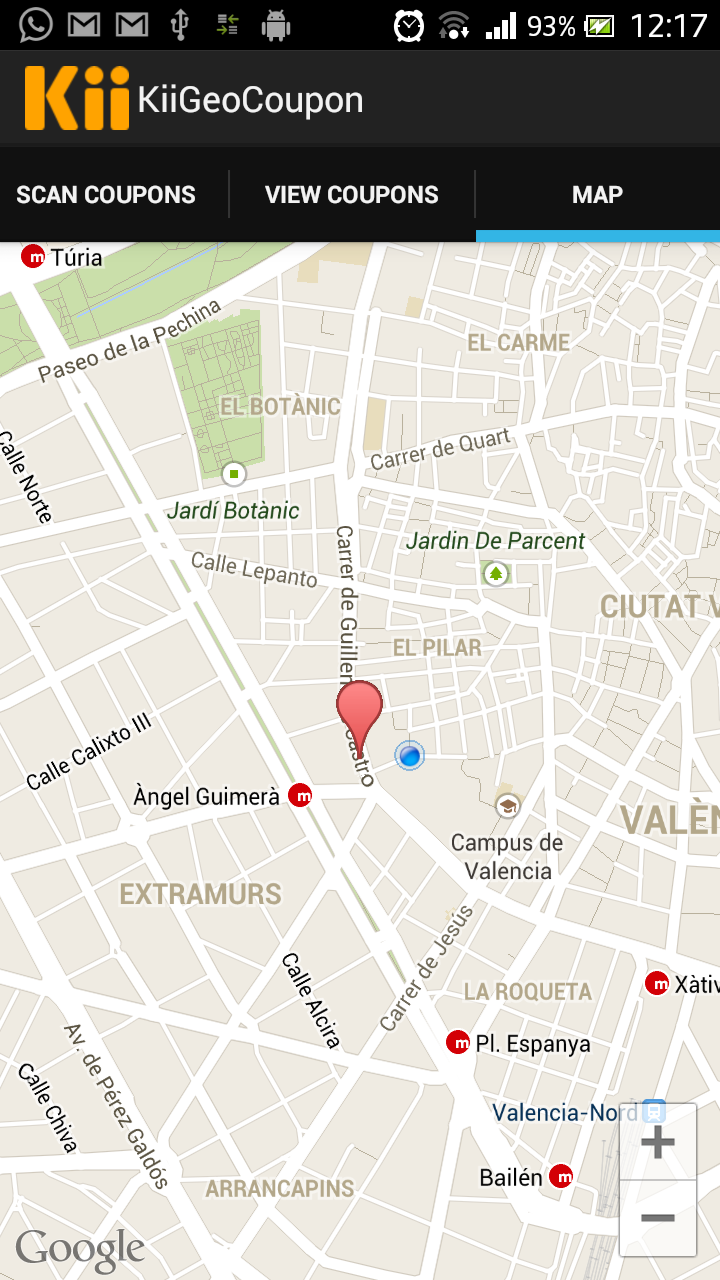
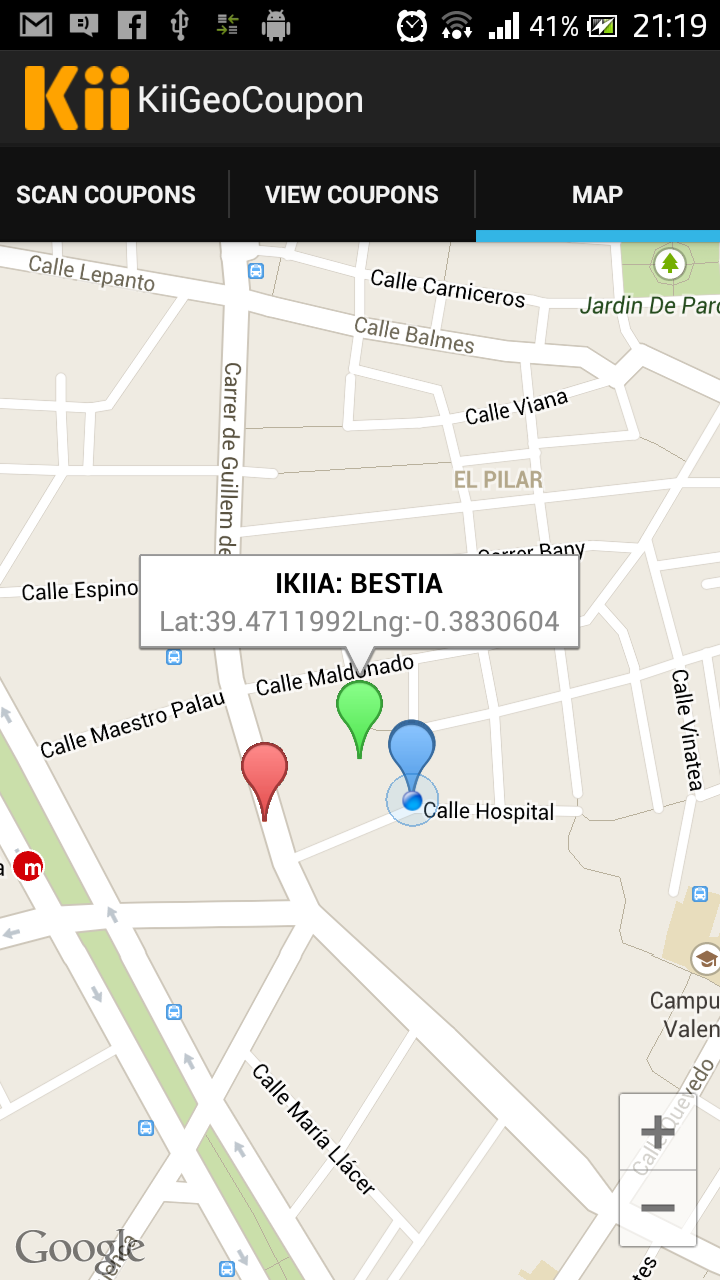
Invalid coupon bug fixed

diff --git a/KiiGeoCoupon/src/com/kii/sample/kiigeocoupon/GeoSampleAndroidApp.java b/KiiGeoCoupon/src/com/kii/sample/kiigeocoupon/GeoSampleAndroidApp.java
@@ -58,6 +58,7 @@ public class GeoSampleAndroidApp extends Activity implements
 	private CouponMapFragment _mapFragment;
 	private LocationClient _locationClient;
 	private LocationRequest _locationRequest;
+	private Location _cachedLocation;
 
 	@Override
 	protected void onCreate(Bundle savedInstanceState) {
@@ -134,6 +135,7 @@ public class GeoSampleAndroidApp extends Activity implements
 	public void onConfigurationChanged(Configuration newConfig) {
 		super.onConfigurationChanged(newConfig);
 		setContentView(R.layout.activity_kii_geo_coupon_app);
+		_locationClient.connect();
 	}
 
 	/*
@@ -181,9 +183,7 @@ public class GeoSampleAndroidApp extends Activity implements
 			 */
 			switch (resultCode) {
 			case Activity.RESULT_OK:
-				/*
-				 * Try the request again
-				 */
+				_locationClient.connect();
 				break;
 			}
 		}
@@ -219,8 +219,10 @@ public class GeoSampleAndroidApp extends Activity implements
 	}
 
 	public Location getCurrentLocation() {
-		Log.e(TAG, "current location:" + _locationClient.getLastLocation());
-		return _locationClient.getLastLocation();
+		if (_locationClient.isConnected())
+			_cachedLocation = _locationClient.getLastLocation();
+		Log.e(TAG, "current location:" + _cachedLocation);
+		return _cachedLocation;
 	}
 
 	public View createCouponView(Coupon coupon) {
@@ -246,7 +248,6 @@ public class GeoSampleAndroidApp extends Activity implements
 		return couponView;
 	}
 
-
 	/*
 	 * Called by Location Services when the request to connect the client
 	 * finishes successfully. At this point, you can request the current
@@ -255,7 +256,8 @@ public class GeoSampleAndroidApp extends Activity implements
 	@Override
 	public void onConnected(Bundle dataBundle) {
 		// Display the connection status
-		Toast.makeText(this, "Connected to Google Play Services", Toast.LENGTH_SHORT).show();
+		Toast.makeText(this, "Connected to Google Play Services",
+				Toast.LENGTH_SHORT).show();
 		_locationClient.requestLocationUpdates(_locationRequest, this);
 
 	}
@@ -267,7 +269,8 @@ public class GeoSampleAndroidApp extends Activity implements
 	@Override
 	public void onDisconnected() {
 		// Display the connection status
-		Toast.makeText(this, "Disconnected from Google Play Services. Please re-connect.",
+		Toast.makeText(this,
+				"Disconnected from Google Play Services. Please re-connect.",
 				Toast.LENGTH_SHORT).show();
 	}
 
@@ -305,6 +308,7 @@ public class GeoSampleAndroidApp extends Activity implements
 
 	@Override
 	public void onLocationChanged(Location location) {
+		_cachedLocation=location;
 		_mapFragment.notifyLocationChanged(location);
 	}
 

diff --git a/KiiGeoCoupon/src/com/kii/sample/kiigeocoupon/CouponMapFragment.java b/KiiGeoCoupon/src/com/kii/sample/kiigeocoupon/CouponMapFragment.java
@@ -90,19 +90,6 @@ public class CouponMapFragment extends Fragment {
 					}
 				});
 
-				// LocationManager locationManager = (LocationManager)
-				// getActivity()
-				// .getSystemService(Activity.LOCATION_SERVICE);
-				// // Creating a criteria object to retrieve provider
-				// Criteria criteria = new Criteria();
-				//
-				// // Getting the name of the best provider
-				// String provider = locationManager.getBestProvider(criteria,
-				// false);
-				//
-				// // Getting Current Location
-				// Location location = locationManager
-				// .getLastKnownLocation(provider);
 				Location location = ((GeoSampleAndroidApp) getActivity())
 						.getCurrentLocation();
 				moveCamera(location);
@@ -112,7 +99,7 @@ public class CouponMapFragment extends Fragment {
 					drawMarker(
 							new LatLng(location.getLatitude(),
 									location.getLongitude()),
-							BitmapDescriptorFactory.HUE_AZURE);
+							BitmapDescriptorFactory.HUE_AZURE, "You're here");
 				}
 
 			}
@@ -120,6 +107,7 @@ public class CouponMapFragment extends Fragment {
 	}
 
 	protected void moveCamera(Location location) {
+		if(location==null)return;
 		LatLng latLng = new LatLng(location.getLatitude(),
 				location.getLongitude());
 		CameraUpdate cameraUpdate = CameraUpdateFactory.newLatLngZoom(latLng,
@@ -147,11 +135,11 @@ public class CouponMapFragment extends Fragment {
 		}
 	}
 
-	private void drawMarker(LatLng currentPosition, float hue) {
+	private void drawMarker(LatLng currentPosition, float hue, String title) {
 		_map.addMarker(
 				new MarkerOptions().position(currentPosition).snippet(
 						"Lat:" + currentPosition.latitude + "Lng:"
-								+ currentPosition.longitude)).setIcon(
+								+ currentPosition.longitude).title(title)).setIcon(
 				BitmapDescriptorFactory.defaultMarker(hue));
 	}
 
@@ -257,7 +245,7 @@ public class CouponMapFragment extends Fragment {
 				}
 				location = new LatLng(point.getLatitude(), point.getLongitude());
 				Log.e(TAG, "point:" + point);
-				drawMarker(location, hue);
+				drawMarker(location, hue, coupon.getCompany()+":"+coupon.getProduct());
 			}
 
 	}
@@ -267,7 +255,7 @@ public class CouponMapFragment extends Fragment {
 		if (_map != null) {
 			drawMarker(
 					new LatLng(location.getLatitude(), location.getLongitude()),
-					BitmapDescriptorFactory.HUE_AZURE);
+					BitmapDescriptorFactory.HUE_AZURE, "You're here");
 			drawCouponMarks();
 			moveCamera(location);
 		}

diff --git a/KiiGeoCoupon/src/com/kii/sample/kiigeocoupon/Coupon.java b/KiiGeoCoupon/src/com/kii/sample/kiigeocoupon/Coupon.java
@@ -38,11 +38,12 @@ public class Coupon {
 		KiiObject kiiObject = null;
 		try {
 			Log.e(TAG, "login:" + KiiUser.isLoggedIn());
-			kiiObject = KiiData.getUser().bucket(GeoSampleAndroidApp.USER_BUCKET)
-					.object();
+			kiiObject = KiiData.getUser()
+					.bucket(GeoSampleAndroidApp.USER_BUCKET).object();
 		} catch (Exception e) {
 			Log.e(TAG, "Can not create bucket");
 			e.printStackTrace();
+			return null;
 		}
 		kiiObject.set(RAW_DATA, scanResult.getRawBytes());
 		StringTokenizer st = new StringTokenizer(scanResult.getContents(), ",");
@@ -50,25 +51,26 @@ public class Coupon {
 			kiiObject.set(COMPANY, st.nextToken());
 			kiiObject.set(PRODUCT, st.nextToken());
 			kiiObject.set(DISCOUNT_CODE, st.nextToken());
+			kiiObject.set(VIEW_AT, new GeoPoint(location.getLatitude(),
+					location.getLongitude()));
+			kiiObject.set(IS_REDEEMED, false);
+			kiiObject.save(new KiiObjectCallBack() {
+
+				@Override
+				public void onSaveCompleted(int token, KiiObject object,
+						Exception exception) {
+					super.onSaveCompleted(token, object, exception);
+					if (exception == null)
+						Log.e(TAG, "Coupon saved");
+					else
+						exception.printStackTrace();
+				}
+
+			});
+			Coupon coupon = new Coupon(kiiObject);
+			return coupon;
 		}
-		kiiObject.set(VIEW_AT,
-				new GeoPoint(location.getLatitude(), location.getLongitude()));
-		kiiObject.set(IS_REDEEMED, false);
-		kiiObject.save(new KiiObjectCallBack() {
-
-			@Override
-			public void onSaveCompleted(int token, KiiObject object,
-					Exception exception) {
-				super.onSaveCompleted(token, object, exception);
-				if (exception == null)
-					Log.e(TAG, "Coupon saved");
-				else
-					exception.printStackTrace();
-			}
-
-		});
-		Coupon coupon = new Coupon(kiiObject);
-		return coupon;
+		return null;
 	}
 
 	public String getCompany() {
@@ -90,8 +92,8 @@ public class Coupon {
 	public GeoPoint getRedeemAt() {
 		return _kiiObject.getGeoPoint(REDEEM_AT, null);
 	}
-	
-	public boolean isRedeemed(){
+
+	public boolean isRedeemed() {
 		return _kiiObject.getBoolean(IS_REDEEMED);
 	}
 

diff --git a/KiiGeoCoupon/src/com/kii/sample/kiigeocoupon/ScanCouponFragment.java b/KiiGeoCoupon/src/com/kii/sample/kiigeocoupon/ScanCouponFragment.java
@@ -21,7 +21,6 @@ public class ScanCouponFragment extends Fragment {
 	private FrameLayout _scannedCoupon;
 	private Coupon _currentCoupon;
 
-
 	@Override
 	public void onCreate(Bundle savedInstanceState) {
 		super.onCreate(savedInstanceState);
@@ -38,19 +37,18 @@ public class ScanCouponFragment extends Fragment {
 
 			@Override
 			public void onClick(View v) {
-				 startScan();
-				//capturePicture();
+				startScan();
+				// capturePicture();
 			}
 		});
 		_scannedCoupon = (FrameLayout) rootView
 				.findViewById(R.id.scanned_coupon);
 		if (_currentCoupon != null)
-			((GeoSampleAndroidApp)getActivity()).createCouponView(_currentCoupon);
-
+			((GeoSampleAndroidApp) getActivity())
+					.createCouponView(_currentCoupon);
 
 		return rootView;
 	}
-
 
 	public void enableScan() {
 		_scanButton.setVisibility(View.VISIBLE);
@@ -62,12 +60,14 @@ public class ScanCouponFragment extends Fragment {
 	}
 
 	public void setScanResult(IntentResult scanResult) {
-		Location location=((GeoSampleAndroidApp)getActivity()).getCurrentLocation();
+		Location location = ((GeoSampleAndroidApp) getActivity())
+				.getCurrentLocation();
 		_currentCoupon = Coupon.create(scanResult, location);
-		View couponView=((GeoSampleAndroidApp)getActivity()).createCouponView(_currentCoupon);
-		_scannedCoupon.addView(couponView);
+		if (_currentCoupon != null) {
+			View couponView = ((GeoSampleAndroidApp) getActivity())
+					.createCouponView(_currentCoupon);
+			_scannedCoupon.addView(couponView);
+		}
 	}
-
-
 
 }
